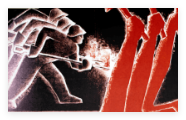
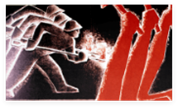
修复正面突击在空场时无法获得轻步兵的bug
根因：foreach进入空targets列表时仍执行了一次循环体，
导致if(target.name!=轻步兵)因targets为空而返回false，
使setResult(1)错误执行，最终跳过了AddToHand逻辑。
修复：空列表时跳过整个foreach循环体，直接跳转到匹配的End&之后。

diff --git a/bin/battlefield_.cs b/bin/battlefield_.cs
@@ -3185,23 +3185,28 @@ InputState currentInputState = InputState.nil;
                 // foreach - 进入循环并保存当前 targets
                 if (ins == "foreach")
                 {
+                    var savedTargets = new List<cardBase_>(targets);
+
+                    // 空列表时跳过整个循环体，避免循环体内条件错误求值
+                    if (savedTargets.Count == 0)
+                    {
+                        int endIndex = FindMatchingEndAndForIndex(parts, i);
+                        if (endIndex > i)
+                        {
+                            // 跳转到End&之后（循环自增后为endIndex+1）
+                            i = endIndex;
+                        }
+                        continue;
+                    }
+
                     if (foreachStack.Count == 0)
                     {
                         // 记录进入第一层循环前的 targets，以便循环结束后恢复
                         preForeachTargets = new List<cardBase_>(targets);
                     }
 
-                    var savedTargets = new List<cardBase_>(targets);
                     foreachStack.Push((savedTargets, 0, i + 1));
-
-                    if (savedTargets.Count > 0)
-                    {
-                        targets = new List<cardBase_> { savedTargets[0] };
-                    }
-                    else
-                    {
-                        targets = new List<cardBase_>();
-                    }
+                    targets = new List<cardBase_> { savedTargets[0] };
 
                     continue;
                 }
@@ -4637,6 +4642,34 @@ InputState currentInputState = InputState.nil;
         }
 
         return false;
+    }
+
+    /// <summary>
+    /// 查找与指定foreach指令匹配的End&指令索引，支持嵌套
+    /// </summary>
+    /// <param name="parts">已分割的效果指令数组</param>
+    /// <param name="foreachIndex">foreach指令在parts中的索引</param>
+    /// <returns>匹配的End&索引，若未找到则返回foreachIndex</returns>
+    private int FindMatchingEndAndForIndex(string[] parts, int foreachIndex)
+    {
+        int depth = 0;
+        for (int j = foreachIndex + 1; j < parts.Length; j++)
+        {
+            string p = parts[j].Trim().ToLowerInvariant();
+            if (p == "foreach")
+            {
+                depth++;
+            }
+            else if (p == "end&")
+            {
+                if (depth == 0)
+                {
+                    return j;
+                }
+                depth--;
+            }
+        }
+        return foreachIndex; // 未找到匹配的End&
     }
 
 }

diff --git a/bin/TextureButton1.cs b/bin/TextureButton1.cs
@@ -1,0 +1,21 @@
+
+using Godot;
+using System;
+
+public partial class TextureButton1 : TextureButton
+{
+    void OnChoose1Pressed()
+    {
+        
+    }
+
+    void OnChoose2Pressed()
+    {
+        
+    }
+
+    void OnChoose3Pressed()
+    {
+        
+    }
+}

diff --git a/bin/Area1.cs b/bin/Area1.cs
@@ -1,0 +1,9 @@
+using Godot;
+using System;
+
+public partial class Area1 : TextureButton
+{
+    void _on_area_1_pressed(){
+        
+    }
+}
